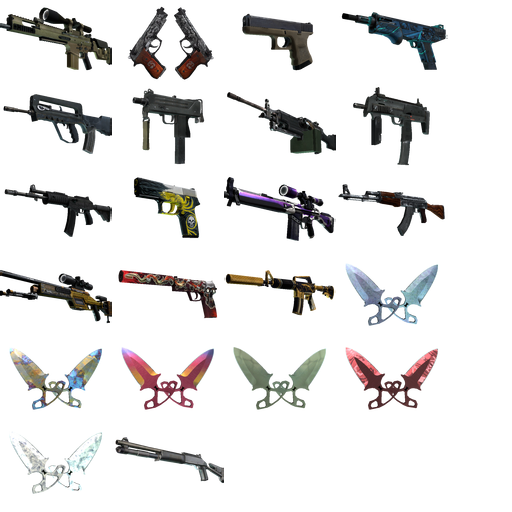
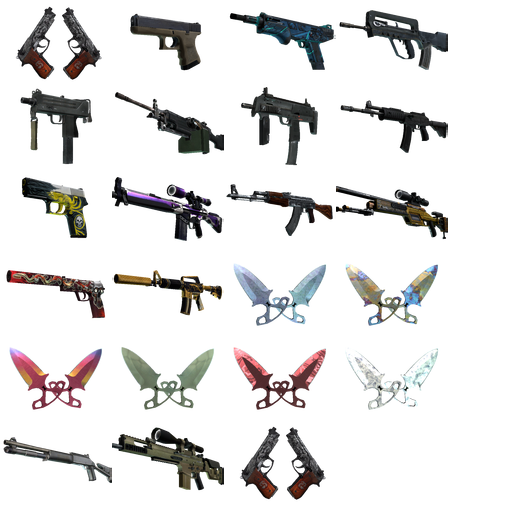
Add files via upload

diff --git a/data.js b/data.js
@@ -1,1 +1,1 @@
-{"project": [null,null,[[0,false,true,true,true,false,false,false,false,false],[1,true,false,false,false,false,false,false,false,false],[2,false,true,true,true,true,true,true,true,false],[3,false,true,true,true,true,true,true,true,true],[4,true,false,false,false,false,false,false,false,false]],[["t0",2,false,[],0,0,null,[["Default",5,false,1,0,false,726797967582035,[["images/shadowcase-sheet0.png",64958,0,0,256,198,1,0.5,0.5,[],[-0.3789060115814209,-0.3434340059757233,0,-0.4090909063816071,0.3554689884185791,-0.3131310045719147,0.453125,0,0.3476560115814209,0.3030300140380859,0,0.3838379979133606,-0.3085939884185791,0.2525249719619751,-0.4257811903953552,0],0]]]],[],false,false,351941574570929,[],null],["t1",1,false,[],0,0,null,null,[],false,false,849693192479362,[],null,[]],["t2",2,false,[],0,0,null,[["Default",5,false,1,0,false,637777719318497,[["images/slot-sheet0.png",349,0,0,250,250,1,0.5,0.5,[],[],1]]]],[],false,false,576071104302754,[],null],["t3",2,false,[],0,0,null,[["Default",0,false,1,0,false,200995727939965,[["images/weapons-sheet0.png",185440,1,1,110,82,1,0.5,0.5,[],[],0],["images/weapons-sheet0.png",185440,113,1,110,82,1,0.5,0.5,[],[],0],["images/weapons-sheet0.png",185440,225,1,110,82,1,0.5,0.5,[],[],0],["images/weapons-sheet0.png",185440,337,1,110,82,1,0.5,0.5,[],[],0],["images/weapons-sheet0.png",185440,1,85,110,82,1,0.5,0.5,[],[],0],["images/weapons-sheet0.png",185440,113,85,110,82,1,0.5,0.5,[],[],0],["images/weapons-sheet0.png",185440,225,85,110,82,1,0.5,0.5,[],[],0],["images/weapons-sheet0.png",185440,337,85,110,82,1,0.5,0.5,[],[],0],["images/weapons-sheet0.png",185440,1,169,110,82,1,0.5,0.5,[],[],0],["images/weapons-sheet0.png",185440,113,169,110,82,1,0.5,0.5,[],[],0],["images/weapons-sheet0.png",185440,225,169,110,82,1,0.5,0.5,[],[],0],["images/weapons-sheet0.png",185440,337,169,110,82,1,0.5,0.5,[],[],0],["images/weapons-sheet0.png",185440,1,253,110,82,1,0.5,0.5,[],[],0],["images/weapons-sheet0.png",185440,113,253,110,82,1,0.5,0.5,[],[],0],["images/weapons-sheet0.png",185440,225,253,110,82,1,0.5,0.5,[],[],0],["images/weapons-sheet0.png",185440,337,253,110,82,1,0.5,0.5,[],[],0],["images/weapons-sheet0.png",185440,1,337,110,82,1,0.5,0.5,[],[],0],["images/weapons-sheet0.png",185440,113,337,110,82,1,0.5,0.5,[],[],0],["images/weapons-sheet0.png",185440,225,337,110,82,1,0.5,0.5,[],[],0],["images/weapons-sheet0.png",185440,337,337,110,82,1,0.5,0.5,[],[],0],["images/weapons-sheet0.png",185440,1,421,110,82,1,0.5,0.5,[],[],0],["images/weapons-sheet0.png",185440,113,421,110,82,1,0.5,0.5,[],[],0]]]],[],false,false,446068926285839,[],null],["t4",0,false,[],0,0,null,null,[],false,false,798565375147105,[],null],["t5",3,false,[],0,0,["images/tiledbackground.png",93,1],null,[],false,false,566223208634800,[],null],["t6",2,false,[],0,0,null,[["Default",5,false,1,0,false,789139627300580,[["images/sprite-sheet0.png",155,0,0,250,250,1,0.5,0.5,[],[],1]]]],[],false,false,997174810812738,[],null],["t7",2,false,[],0,0,null,[["Default",0,false,1,0,false,611415204762472,[["images/weapons-sheet0.png",185440,1,1,110,82,1,0.5,0.5,[],[],0],["images/weapons-sheet0.png",185440,113,1,110,82,1,0.5,0.5,[],[],0],["images/weapons-sheet0.png",185440,225,1,110,82,1,0.5,0.5,[],[],0],["images/weapons-sheet0.png",185440,337,1,110,82,1,0.5,0.5,[],[],0],["images/weapons-sheet0.png",185440,1,85,110,82,1,0.5,0.5,[],[],0],["images/weapons-sheet0.png",185440,113,85,110,82,1,0.5,0.5,[],[],0],["images/weapons-sheet0.png",185440,225,85,110,82,1,0.5,0.5,[],[],0],["images/weapons-sheet0.png",185440,337,85,110,82,1,0.5,0.5,[],[],0],["images/weapons-sheet0.png",185440,1,169,110,82,1,0.5,0.5,[],[],0],["images/weapons-sheet0.png",185440,113,169,110,82,1,0.5,0.5,[],[],0],["images/weapons-sheet0.png",185440,225,169,110,82,1,0.5,0.5,[],[],0],["images/weapons-sheet0.png",185440,337,169,110,82,1,0.5,0.5,[],[],0],["images/weapons-sheet0.png",185440,1,253,110,82,1,0.5,0.5,[],[],0],["images/weapons-sheet0.png",185440,113,253,110,82,1,0.5,0.5,[],[],0],["images/weapons-sheet0.png",185440,225,253,110,82,1,0.5,0.5,[],[],0],["images/weapons-sheet0.png",185440,337,253,110,82,1,0.5,0.5,[],[],0],["images/weapons-sheet0.png",185440,1,337,110,82,1,0.5,0.5,[],[],0],["images/weapons-sheet0.png",185440,113,337,110,82,1,0.5,0.5,[],[],0],["images/weapons-sheet0.png",185440,225,337,110,82,1,0.5,0.5,[],[],0],["images/weapons-sheet0.png",185440,337,337,110,82,1,0.5,0.5,[],[],0],["images/weapons-sheet0.png",185440,1,421,110,82,1,0.5,0.5,[],[],0],["images/weapons-sheet0.png",185440,113,421,110,82,1,0.5,0.5,[],[],0]]]],[],false,false,678179063971314,[],null],["t8",4,false,[],0,0,null,null,[],false,false,847757699896444,[],null,[""]],["t9",3,false,[],0,0,["images/ПлиточныйФон.png",156,4],null,[],false,false,654251011866561,[],null]],[],[["Layout 2",1750,1080,false,"Event sheet 2",918226429127264,[["Slot",0,119419040690478,true,[255,255,255],false,1,1,1,false,false,1,0,0,[[[125,512,0,250,250,0,0,1,0.5,0.5,0,0,[]],2,2,[],[],[0,"Default",0,-1]],[[375,512,0,250,250,0,0,1,0.5,0.5,0,0,[]],2,3,[],[],[0,"Default",0,-1]],[[625,512,0,250,250,0,0,1,0.5,0.5,0,0,[]],2,4,[],[],[0,"Default",0,-1]],[[875,512,0,250,250,0,0,1,0.5,0.5,0,0,[]],2,5,[],[],[0,"Default",0,-1]],[[1125,512,0,250,250,0,0,1,0.5,0.5,0,0,[]],2,6,[],[],[0,"Default",0,-1]],[[1375,512,0,250,250,0,0,1,0.5,0.5,0,0,[]],2,7,[],[],[0,"Default",0,-1]],[[1625,512,0,250,250,0,0,1,0.5,0.5,0,0,[]],2,8,[],[],[0,"Default",0,-1]],[[1875,512,0,250,250,0,0,1,0.5,0.5,0,0,[]],2,9,[],[],[0,"Default",0,-1]],[[2125,512,0,250,250,0,0,1,0.5,0.5,0,0,[]],2,18,[],[],[0,"Default",0,-1]]],[]],["Weapons",1,280893478647754,true,[255,255,255],true,1,1,1,false,false,1,0,0,[[[124.9060363769531,512,0,247,154,0,0,1,0.5,0.5,0,0,[]],3,10,[],[],[0,"Default",0,-1]],[[374.093994140625,512,0,247,154,0,0,1,0.5,0.5,0,0,[]],3,11,[],[],[0,"Default",3,-1]],[[624.093994140625,512,0,247,154,0,0,1,0.5,0.5,0,0,[]],3,12,[],[],[0,"Default",2,-1]],[[873.093994140625,512,0,247,154,0,0,1,0.5,0.5,0,0,[]],3,13,[],[],[0,"Default",1,-1]],[[1124.093994140625,512,0,247,154,0,0,1,0.5,0.5,0,0,[]],3,14,[],[],[0,"Default",6,-1]],[[1373.093994140625,512,0,247,154,0,0,1,0.5,0.5,0,0,[]],3,15,[],[],[0,"Default",8,-1]],[[1625,512,0,247,154,0,0,1,0.5,0.5,0,0,[]],3,16,[],[],[0,"Default",12,-1]],[[1875,512,0,247,154,0,0,1,0.5,0.5,0,0,[]],3,17,[],[],[0,"Default",9,-1]],[[2125,512,0,247,154,0,0,1,0.5,0.5,0,0,[]],3,19,[],[],[0,"Default",9,-1]],[[875,896,0,154.9193267822266,51.63977813720703,0,0,1,0,0,0,0,[]],4,20,[],[],[0,"Крутить","",1,1,1,"",0]],[[173,162,0,250,250,0,0,1,0.5,0.5,0,0,[]],6,22,[],[],[0,"Default",0,-1]],[[170,161,0,190.5678100585938,142.0596466064453,0,0,1,0.5,0.5,0,0,[]],7,23,[],[],[1,"Default",0,-1]]],[]],["All",2,221690491528082,true,[255,255,255],true,1,1,1,false,false,1,0,0,[[[891,-17,0,3,543,0,0,1,0,0,0,0,[]],5,21,[],[],[0,0]],[[-126,514,0,250,250,0,0,1,0.5,0.5,0,0,[]],2,25,[],[],[0,"Default",0,-1]],[[-256.743408203125,249.6544799804688,0,6.312225341796875,512,0,0,1,0,0,0,0,[]],9,0,[],[],[0,0]]],[]]],[],[]]],[["Event sheet 2",[[1,"name",1,"",false,false,236994508135538,false],[1,"Weapons",0,0,false,false,301893683915046,false],[1,"Start",0,0,false,false,936276958179462,false],[0,null,false,null,664665088333962,[[-1,5,null,0,false,false,false,865088999674226,false],[-1,6,null,0,false,false,false,927021268582438,false,[[11,"Start"],[8,0],[7,[0,1]]]]],[[2,7,null,150518303877257,false,[[0,[0,-20]]]],[3,7,null,144841544885359,false,[[0,[0,-20]]]]]],[0,null,false,null,293346123810755,[[3,8,null,0,false,false,true,670007866265467,false,[[4,9]]],[-1,6,null,0,false,false,false,691153806966575,false,[[11,"Start"],[8,0],[7,[0,1]]]]],[[-1,9,null,699288249748242,false,[[4,2],[5,[0,0]],[0,[0,2125]],[0,[0,512]]]],[-1,9,null,473291405604901,false,[[4,3],[5,[0,1]],[0,[0,2125]],[0,[0,512]]]]],[[0,null,false,null,593586323330872,[[-1,10,null,0,false,false,false,256823010973183,false]],[[3,11,null,176016474707368,false,[[0,[19,12,[[19,13,[[0,0],[0,21]]]]]]]]]]]],[0,null,false,null,404097765632623,[[4,14,null,1,false,false,false,174725528746329,false]],[[-1,15,null,549826258506182,false,[[11,"Start"],[7,[0,1]]]]]],[0,null,false,null,637418111874208,[[-1,6,null,0,false,false,false,690818613802903,false,[[11,"Start"],[8,0],[7,[0,1]]]]],[[4,16,null,816956882822473,false,[[3,0]]]]],[0,null,false,null,564506406884564,[[-1,6,null,0,false,false,false,732088819307960,false,[[11,"Start"],[8,0],[7,[0,0]]]]],[[4,16,null,165865295260769,false,[[3,1]]]]],[0,null,false,null,732121659403736,[[-1,17,null,0,false,false,false,132560471520645,false,[[0,[19,12,[[19,13,[[0,4],[0,7]]]]]]]]],[[-1,15,null,771431670282647,false,[[11,"Start"],[7,[0,0]]]]],[[0,null,false,null,421850229874280,[[3,8,null,0,false,false,true,498173970476181,false,[[4,5]]]],[[-1,15,null,368407833729513,false,[[11,"Weapons"],[7,[20,3,18,false,null]]]],[7,19,null,784948286675913,false,[[3,1]]],[-1,15,null,573397723814629,false,[[11,"name"],[7,[20,3,18,false,null]]]],[8,20,null,278334191759472,false,[[1,[2,""]],[1,[23,"name"]],[1,[2,"photo155902974_457241318"]],[1,[2,""]],[1,[2,""]],[1,[2,""]],[1,[2,""]],[1,[2,""]],[1,[2,""]],[1,[2,""]]]]]]]],[0,null,false,null,726230657900963,[[-1,5,null,0,false,false,false,930328247373637,false]],[[7,11,null,993168536436399,false,[[0,[23,"Weapons"]]]]]]]]],[],"media/",false,1750,1080,4,true,true,true,"1.0.0.0",true,false,4,0,26,false,true,1,true,"New project",0,[]]}
+{"project": [null,null,[[0,false,true,true,true,false,false,false,false,false],[1,true,false,false,false,false,false,false,false,false],[2,false,true,true,true,true,true,true,true,false],[3,false,true,true,true,true,true,true,true,true],[4,true,false,false,false,false,false,false,false,false]],[["t0",2,false,[],0,0,null,[["Default",5,false,1,0,false,726797967582035,[["images/shadowcase-sheet0.png",64958,0,0,256,198,1,0.5,0.5,[],[-0.3789060115814209,-0.3434340059757233,0,-0.4090909063816071,0.3554689884185791,-0.3131310045719147,0.453125,0,0.3476560115814209,0.3030300140380859,0,0.3838379979133606,-0.3085939884185791,0.2525249719619751,-0.4257811903953552,0],0]]]],[],false,false,351941574570929,[],null],["t1",1,false,[],0,0,null,null,[],false,false,849693192479362,[],null,[]],["t2",2,false,[],0,0,null,[["Default",5,false,1,0,false,637777719318497,[["images/slot-sheet0.png",349,0,0,250,250,1,0.5,0.5,[],[],1]]]],[],false,false,576071104302754,[],null],["t3",2,false,[],0,0,null,[["Default",0,false,1,0,false,200995727939965,[["images/weapons-sheet0.png",196199,1,1,110,82,1,0.5,0.5,[],[],0],["images/weapons-sheet0.png",196199,113,1,110,82,1,0.5,0.5,[],[],0],["images/weapons-sheet0.png",196199,225,1,110,82,1,0.5,0.5,[],[],0],["images/weapons-sheet0.png",196199,337,1,110,82,1,0.5,0.5,[],[],0],["images/weapons-sheet0.png",196199,1,85,110,82,1,0.5,0.5,[],[],0],["images/weapons-sheet0.png",196199,113,85,110,82,1,0.5,0.5,[],[],0],["images/weapons-sheet0.png",196199,225,85,110,82,1,0.5,0.5,[],[],0],["images/weapons-sheet0.png",196199,337,85,110,82,1,0.5,0.5,[],[],0],["images/weapons-sheet0.png",196199,1,169,110,82,1,0.5,0.5,[],[],0],["images/weapons-sheet0.png",196199,113,169,110,82,1,0.5,0.5,[],[],0],["images/weapons-sheet0.png",196199,225,169,110,82,1,0.5,0.5,[],[],0],["images/weapons-sheet0.png",196199,337,169,110,82,1,0.5,0.5,[],[],0],["images/weapons-sheet0.png",196199,1,253,110,82,1,0.5,0.5,[],[],0],["images/weapons-sheet0.png",196199,113,253,110,82,1,0.5,0.5,[],[],0],["images/weapons-sheet0.png",196199,225,253,110,82,1,0.5,0.5,[],[],0],["images/weapons-sheet0.png",196199,337,253,110,82,1,0.5,0.5,[],[],0],["images/weapons-sheet0.png",196199,1,337,110,82,1,0.5,0.5,[],[],0],["images/weapons-sheet0.png",196199,113,337,110,82,1,0.5,0.5,[],[],0],["images/weapons-sheet0.png",196199,225,337,110,82,1,0.5,0.5,[],[],0],["images/weapons-sheet0.png",196199,337,337,110,82,1,0.5,0.5,[],[],0],["images/weapons-sheet0.png",196199,1,421,110,82,1,0.5,0.5,[],[],0],["images/weapons-sheet0.png",196199,113,421,110,82,1,0.5,0.5,[],[],0],["images/weapons-sheet0.png",196199,225,421,110,82,1,0.5,0.5,[],[],0]]]],[],false,false,446068926285839,[],null],["t4",0,false,[],0,0,null,null,[],false,false,798565375147105,[],null],["t5",3,false,[],0,0,["images/tiledbackground.png",93,1],null,[],false,false,566223208634800,[],null],["t6",2,false,[],0,0,null,[["Default",5,false,1,0,false,789139627300580,[["images/sprite-sheet0.png",155,0,0,250,250,1,0.5,0.5,[],[],1]]]],[],false,false,997174810812738,[],null],["t7",2,false,[],0,0,null,[["Default",0,false,1,0,false,611415204762472,[["images/weapons2-sheet0.png",12164,0,0,110,82,1,0.5,0.5,[],[],0],["images/weapons-sheet0.png",196199,1,1,110,82,1,0.5,0.5,[],[],0],["images/weapons-sheet0.png",196199,113,1,110,82,1,0.5,0.5,[],[],0],["images/weapons-sheet0.png",196199,225,1,110,82,1,0.5,0.5,[],[],0],["images/weapons-sheet0.png",196199,337,1,110,82,1,0.5,0.5,[],[],0],["images/weapons-sheet0.png",196199,1,85,110,82,1,0.5,0.5,[],[],0],["images/weapons-sheet0.png",196199,113,85,110,82,1,0.5,0.5,[],[],0],["images/weapons-sheet0.png",196199,225,85,110,82,1,0.5,0.5,[],[],0],["images/weapons-sheet0.png",196199,337,85,110,82,1,0.5,0.5,[],[],0],["images/weapons-sheet0.png",196199,1,169,110,82,1,0.5,0.5,[],[],0],["images/weapons-sheet0.png",196199,113,169,110,82,1,0.5,0.5,[],[],0],["images/weapons-sheet0.png",196199,225,169,110,82,1,0.5,0.5,[],[],0],["images/weapons-sheet0.png",196199,337,169,110,82,1,0.5,0.5,[],[],0],["images/weapons-sheet0.png",196199,1,253,110,82,1,0.5,0.5,[],[],0],["images/weapons-sheet0.png",196199,113,253,110,82,1,0.5,0.5,[],[],0],["images/weapons-sheet0.png",196199,225,253,110,82,1,0.5,0.5,[],[],0],["images/weapons-sheet0.png",196199,337,253,110,82,1,0.5,0.5,[],[],0],["images/weapons-sheet0.png",196199,1,337,110,82,1,0.5,0.5,[],[],0],["images/weapons-sheet0.png",196199,113,337,110,82,1,0.5,0.5,[],[],0],["images/weapons-sheet0.png",196199,225,337,110,82,1,0.5,0.5,[],[],0],["images/weapons-sheet0.png",196199,337,337,110,82,1,0.5,0.5,[],[],0],["images/weapons-sheet0.png",196199,1,421,110,82,1,0.5,0.5,[],[],0]]]],[],false,false,678179063971314,[],null],["t8",4,false,[],0,0,null,null,[],false,false,847757699896444,[],null,[""]],["t9",3,false,[],0,0,["images/ПлиточныйФон.png",156,4],null,[],false,false,654251011866561,[],null],["t10",2,false,[],0,0,null,[["Новая",5,false,1,0,false,322580904737662,[["images/Спрайт-sheet0.png",155,0,0,250,250,1,0.5,0.5,[],[],4]]]],[],false,false,679684912247837,[],null],["t11",0,false,[],0,0,null,null,[],false,false,542122655030933,[],null]],[],[["Layout 2",1750,1080,false,"Event sheet 2",918226429127264,[["Slot",0,119419040690478,true,[255,255,255],false,1,1,1,false,false,1,0,0,[[[125,512,0,250,250,0,0,1,0.5,0.5,0,0,[]],2,2,[],[],[0,"Default",0,-1]],[[375,512,0,250,250,0,0,1,0.5,0.5,0,0,[]],2,3,[],[],[0,"Default",0,-1]],[[625,512,0,250,250,0,0,1,0.5,0.5,0,0,[]],2,4,[],[],[0,"Default",0,-1]],[[875,512,0,250,250,0,0,1,0.5,0.5,0,0,[]],2,5,[],[],[0,"Default",0,-1]],[[1125,512,0,250,250,0,0,1,0.5,0.5,0,0,[]],2,6,[],[],[0,"Default",0,-1]],[[1375,512,0,250,250,0,0,1,0.5,0.5,0,0,[]],2,7,[],[],[0,"Default",0,-1]],[[1625,512,0,250,250,0,0,1,0.5,0.5,0,0,[]],2,8,[],[],[0,"Default",0,-1]],[[1875,512,0,250,250,0,0,1,0.5,0.5,0,0,[]],2,9,[],[],[0,"Default",0,-1]],[[2125,512,0,250,250,0,0,1,0.5,0.5,0,0,[]],2,25,[],[],[0,"Default",0,-1]]],[]],["Weapons",1,280893478647754,true,[255,255,255],true,1,1,1,false,false,1,0,0,[[[124.9060363769531,512,0,247,154,0,0,1,0.5,0.5,0,0,[]],3,10,[],[],[0,"Default",0,-1]],[[374.093994140625,512,0,247,154,0,0,1,0.5,0.5,0,0,[]],3,11,[],[],[0,"Default",3,-1]],[[624.093994140625,512,0,247,154,0,0,1,0.5,0.5,0,0,[]],3,12,[],[],[0,"Default",2,-1]],[[873.093994140625,512,0,247,154,0,0,1,0.5,0.5,0,0,[]],3,13,[],[],[0,"Default",1,-1]],[[1124.093994140625,512,0,247,154,0,0,1,0.5,0.5,0,0,[]],3,14,[],[],[0,"Default",6,-1]],[[1373.093994140625,512,0,247,154,0,0,1,0.5,0.5,0,0,[]],3,15,[],[],[0,"Default",8,-1]],[[1625,512,0,247,154,0,0,1,0.5,0.5,0,0,[]],3,16,[],[],[0,"Default",12,-1]],[[1875,512,0,247,154,0,0,1,0.5,0.5,0,0,[]],3,17,[],[],[0,"Default",9,-1]],[[875,896,0,154.9193267822266,51.63977813720703,0,0,1,0,0,0,0,[]],4,20,[],[],[0,"Крутить","",1,1,1,"",0]],[[173,162,0,250,250,0,0,1,0.5,0.5,0,0,[]],6,22,[],[],[0,"Default",0,-1]],[[170,161,0,190.5678100585938,142.0596466064453,0,0,1,0.5,0.5,0,0,[]],7,23,[],[],[1,"Default",0,-1]],[[2125,512,0,247,154,0,0,1,0.5,0.5,0,0,[]],3,19,[],[],[0,"Default",13,-1]]],[]],["All",2,221690491528082,true,[255,255,255],true,1,1,1,false,false,1,0,0,[[[891,-17,0,3,543,0,0,1,0,0,0,0,[]],5,21,[],[],[0,0]],[[-250,486.8590087890625,0,40,456,0,0,1,0.5,0.5,0,0,[]],10,0,[],[],[0,"Default",0,1]],[[496,102,0,225,142,0,0,1,0,0,0,0,[]],11,18,[],[],[0,"Поделится","",0,1,1,"",0]]],[]]],[],[]]],[["Event sheet 2",[[1,"name",1,"0",false,false,236994508135538,false],[1,"Weapons",0,0,false,false,301893683915046,false],[1,"Start",0,0,false,false,936276958179462,false],[0,null,false,null,664665088333962,[[-1,5,null,0,false,false,false,865088999674226,false],[-1,6,null,0,false,false,false,927021268582438,false,[[11,"Start"],[8,0],[7,[0,1]]]]],[[2,7,null,150518303877257,false,[[0,[0,-20]]]],[3,7,null,144841544885359,false,[[0,[0,-20]]]]]],[0,null,false,null,293346123810755,[[2,8,null,0,false,false,false,830308714926270,false,[[8,0],[0,[0,-125]]]],[-1,6,null,0,false,false,false,691153806966575,false,[[11,"Start"],[8,0],[7,[0,1]]]]],[[-1,9,null,699288249748242,false,[[4,2],[5,[0,0]],[0,[0,1875]],[0,[0,512]]]],[-1,9,null,473291405604901,false,[[4,3],[5,[0,1]],[0,[0,1875]],[0,[0,512]]]]],[[0,null,false,null,593586323330872,[[-1,10,null,0,false,false,false,256823010973183,false]],[[3,11,null,176016474707368,false,[[0,[19,12,[[19,13,[[0,0],[0,21]]]]]]]]]]]],[0,null,false,null,455889985587136,[[2,8,null,0,false,false,false,789222468827671,false,[[8,0],[0,[0,-125]]]],[-1,6,null,0,false,false,false,481072520037925,false,[[11,"Start"],[8,0],[7,[0,1]]]]],[[-1,9,null,311346685559834,false,[[4,2],[5,[0,0]],[0,[0,2125]],[0,[0,512]]]],[-1,9,null,735062926748683,false,[[4,3],[5,[0,1]],[0,[0,2125]],[0,[0,512]]]]],[[0,null,false,null,377839944128053,[[-1,10,null,0,false,false,false,243101845294577,false]],[[3,11,null,368365266496639,false,[[0,[19,12,[[19,13,[[0,1],[0,22]]]]]]]]]]]],[0,null,false,null,404097765632623,[[4,14,null,1,false,false,false,174725528746329,false]],[[-1,15,null,549826258506182,false,[[11,"Start"],[7,[0,1]]]]]],[0,null,false,null,637418111874208,[[-1,6,null,0,false,false,false,690818613802903,false,[[11,"Start"],[8,0],[7,[0,1]]]]],[[4,16,null,816956882822473,false,[[3,0]]]]],[0,null,false,null,564506406884564,[[-1,6,null,0,false,false,false,732088819307960,false,[[11,"Start"],[8,0],[7,[0,0]]]]],[[4,16,null,165865295260769,false,[[3,1]]]]],[0,null,false,null,732121659403736,[[-1,17,null,0,false,false,false,132560471520645,false,[[0,[19,12,[[19,13,[[0,4],[0,7]]]]]]]]],[[-1,15,null,771431670282647,false,[[11,"Start"],[7,[0,0]]]]],[[0,null,false,null,421850229874280,[[3,18,null,0,false,false,true,498173970476181,false,[[4,5]]]],[[-1,15,null,368407833729513,false,[[11,"Weapons"],[7,[20,3,19,false,null]]]],[7,20,null,784948286675913,false,[[3,1]]],[-1,15,null,573397723814629,false,[[11,"name"],[7,[20,3,19,false,null]]]],[11,21,null,608517676831534,false,[[3,1]]]]]]],[0,null,false,null,726230657900963,[[-1,5,null,0,false,false,false,930328247373637,false]],[[7,11,null,993168536436399,false,[[0,[23,"Weapons"]]]]]],[0,null,false,null,112556094918027,[[11,14,null,1,false,false,false,932888386639468,false]],[[8,22,null,962486161702631,false,[[1,[2,""]],[1,[23,"name"]],[1,[2,""]],[1,[2,""]],[1,[2,""]],[1,[2,""]],[1,[2,""]],[1,[2,""]],[1,[2,""]],[1,[2,""]]]]]]]]],[],"media/",false,1750,1080,4,true,true,true,"1.0.0.0",true,false,4,0,27,false,true,1,true,"New project",0,[]]}

diff --git a/c2runtime.js b/c2runtime.js
@@ -17807,7 +17807,7 @@ cr.getObjectRefTable = function () { return [
 	cr.system_object.prototype.cnds.EveryTick,
 	cr.system_object.prototype.cnds.CompareVar,
 	cr.plugins_.Sprite.prototype.acts.MoveForward,
-	cr.plugins_.Sprite.prototype.cnds.OnCollision,
+	cr.plugins_.Sprite.prototype.cnds.CompareX,
 	cr.system_object.prototype.acts.CreateObject,
 	cr.system_object.prototype.cnds.TriggerOnce,
 	cr.plugins_.Sprite.prototype.acts.SetAnimFrame,
@@ -17817,7 +17817,9 @@ cr.getObjectRefTable = function () { return [
 	cr.system_object.prototype.acts.SetVar,
 	cr.plugins_.Button.prototype.acts.SetEnabled,
 	cr.system_object.prototype.cnds.Every,
+	cr.plugins_.Sprite.prototype.cnds.OnCollision,
 	cr.plugins_.Sprite.prototype.exps.AnimationFrame,
 	cr.plugins_.Sprite.prototype.acts.SetVisible,
+	cr.plugins_.Button.prototype.acts.SetVisible,
 	cr.plugins_.vkontakte.prototype.acts.PublishToWall
 ];};

diff --git a/offline.js b/offline.js
@@ -1,5 +1,5 @@
 {
-	"version": 1641324555,
+	"version": 1641328055,
 	"fileList": [
 		"data.js",
 		"c2runtime.js",
@@ -10,7 +10,9 @@
 		"images/weapons-sheet0.png",
 		"images/tiledbackground.png",
 		"images/sprite-sheet0.png",
+		"images/weapons2-sheet0.png",
 		"images/ПлиточныйФон.png",
+		"images/Спрайт-sheet0.png",
 		"icon-16.png",
 		"icon-32.png",
 		"icon-114.png",
